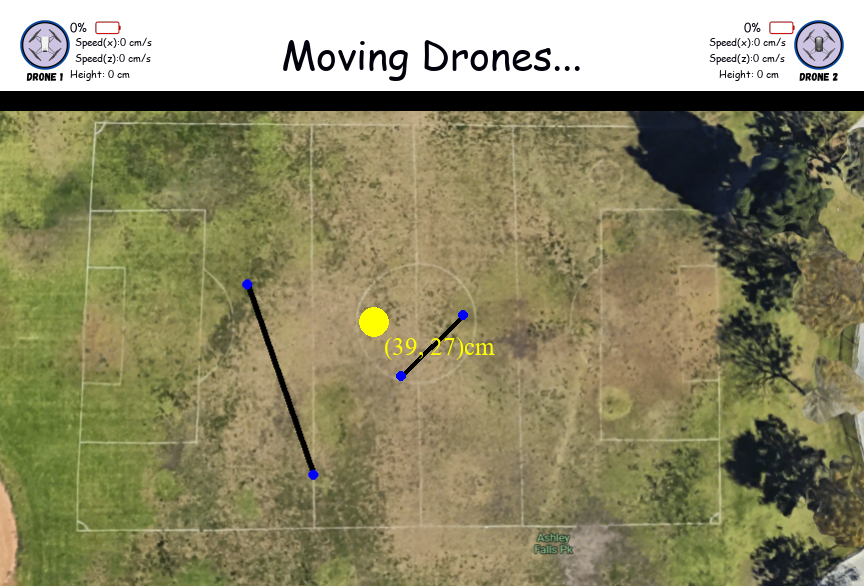
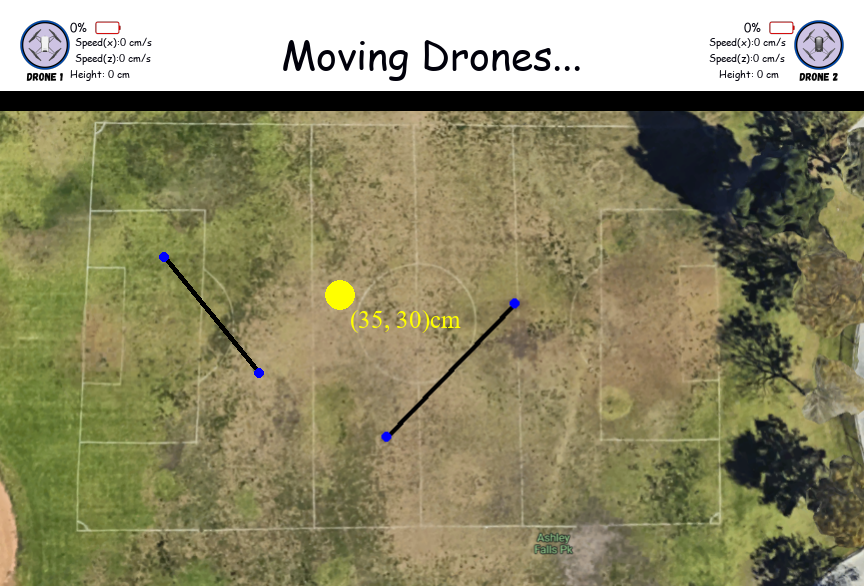
e

diff --git a/mappingtest.py b/mappingtest.py
@@ -28,7 +28,7 @@ def updateScreen():
                 running = False    
        
         startMap.start_screen(0, 0, 0, 0, 0, 0, 0, 0)
-        #sleep(10)
+        sleep(10)
 
     pygame.quit()
     sys.exit()
@@ -83,7 +83,6 @@ pygame.display.update()
 personx, persony, personpospx = map2.addPerson(sizeCoeff)
 personpos = (personx, persony)
 
-print("HELLO")
 startMap.changeInstruction("Moving Drones...")
 startMap.start_screen(0, 0, 0, 0, 0, 0, 0, 0)
 
@@ -151,8 +150,8 @@ if intersection:
     screen.blit(position_text, intersection)
     pygame.draw.circle(screen, (128, 0, 128), intersection, 6) #purple dot at intesection 
     intersection = (intersectx, intersecty)
-    collisiondetect = collision(path2[0], intersection, 500, 500)
-    collisiondetect.get_vertex() 
+    #collisiondetect = collision(path2[0], intersection, 500, 500)
+    #collisiondetect.get_vertex() 
     intersection = True
 print(intersection)
 print(personpos)
@@ -162,7 +161,6 @@ saveImg = pygame.Rect(0, 100, screen_width, screen_height-105)
 # Create a new Surface to store the part of the screen
 path1img = screen.subsurface(saveImg).copy()
 pygame.image.save(screen, "pathPlanned2.png") #Saves new background with path
-
 
 #Makes the drone image on a path
 drone1Img = pygame.image.load('tello3.png')  # Replace with your image file path
@@ -212,7 +210,7 @@ drone1current_pos = list(start_pos1)
 drone1previous_pos = drone1current_pos.copy()
 
 linearSpeed = 500
-angularSpeed = 500
+angularSpeed = 50
 
 timeDur = distanceInCm/linearSpeed
 rotationDur = angle/angularSpeed
@@ -237,8 +235,8 @@ dx2 = (end_pos2[0] - start_pos2[0]) / drone2num_steps
 dy2 = (end_pos2[1] - start_pos2[1]) / drone2num_steps
 
 initial_yaw = 0  # Initial yaw angle in degrees
-target_yaw1 = -(math.atan2(path[1][1] - personpospx[1], path[1][0] - personpospx[0])) * math.pi/180 # Target yaw angle in degrees (can be adjusted)
-target_yaw2 = -(math.atan2(path2[1][1] - personpospx[1], path2[1][0] - personpospx[0]))* math.pi/180
+target_yaw1 = map1.get_angle(path[0], personpospx, (path[0][0], path[0][1]+10))
+target_yaw2 = map2.get_angle(path2[0], personpospx, (path2[0][0]+10, path2[0][1]))
 print(target_yaw1)
 print(target_yaw2)
 
@@ -251,13 +249,10 @@ drawPoints(screen, drone1points, drone1Img, yaw1)
 drawPoints(screen, drone2points, drone2Img, yaw2)
 
 #updates the screen
-
-
 screenThread = threading.Thread(target=updateScreen)
 screenThread.start()
 
 #delays for the takeoff time
-time.sleep(10)
 running = True
 while running:
     for event in pygame.event.get():

diff --git a/customtello.py b/customtello.py
@@ -127,7 +127,7 @@ class myTello:
         if self.sock:
             self.sock.close()
             self.sock = None  #  reset the socket
-        logging.info("Disconnected from drone")
+        logging.info("Disconnect`ed from drone")
 
     def moveForward(self, distance):
         # Move drones forward
